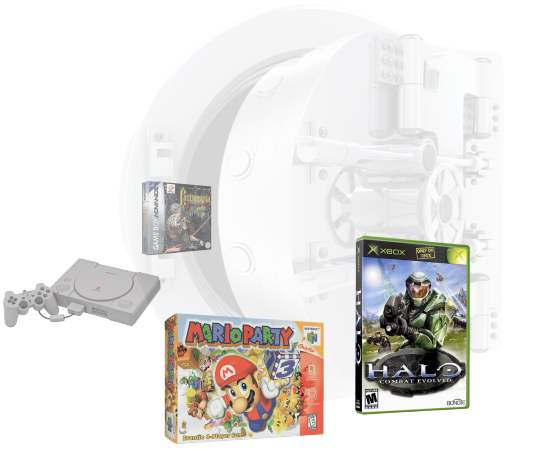
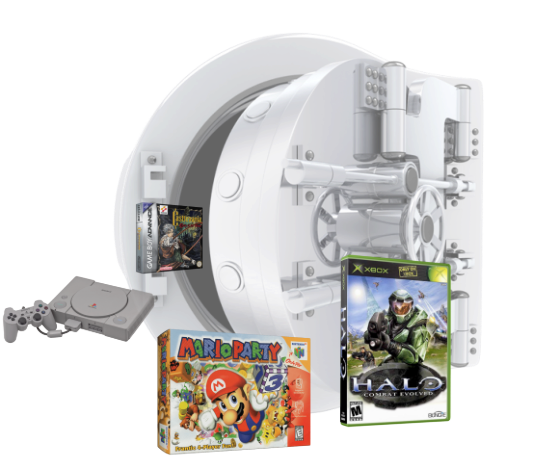
Finalized Home Page

diff --git a/frontend/src/components/NavBar/NavBar.jsx b/frontend/src/components/NavBar/NavBar.jsx
@@ -1,7 +1,25 @@
+import NavButton from "../NavButton"
 
 const NavBar = () => {
   return (
-    <div>NavBar</div>
+    <nav>
+      <div className="navbar fixed bg-background py-5 px-8">
+
+        {/* NavBar Logo */}
+        <div className="flex-1">
+          <a className="btn btn-circle"><img src="./images/logo.png" alt="Website logo of a controller" /></a>
+        </div>
+
+        {/* Sub Buttons */}
+        <div>
+          <ul className="flex space-x-4 px-1">
+            <li><NavButton text="Sign In" /></li>
+            <li><NavButton text="Sign Up" /></li>
+          </ul>
+        </div>
+
+      </div>
+    </nav>
   )
 }
 

diff --git a/frontend/src/components/Hero.jsx b/frontend/src/components/Hero.jsx
@@ -1,7 +1,17 @@
+import NavButton from "./NavButton";
 
-const Hero = () => {
+const Hero = ({hero, alt}) => {
   return (
-    <div>Hero</div>
+    <div className="hero min-h-screen ">
+      <img className="xl:w-1/2 opacity-50" src={hero} alt={alt} />
+  <div className="hero-content text-center text-neutral-content">
+    <div className="max-w-md">
+      <h1 className="mb-5 text-8xl font-black text-primary outline-white">VG Vault</h1>
+      <p className="mb-5 text-3xl font-bold">Keep track of your collection of nostalgia.</p>
+      <NavButton text="Get Started" />
+    </div>
+  </div>
+</div>
   )
 }
 

diff --git a/frontend/src/pages/Home.jsx b/frontend/src/pages/Home.jsx
@@ -1,13 +1,13 @@
-import NavBar from './components/NavBar/NavBar';
-import Hero from './components/Hero';
-import Footer from './components/Footer/Footer';
+import NavBar from '../components/NavBar/NavBar';
+import Hero from '../components/Hero';
+import Footer from '../components/Footer/Footer';
 import '../index.css'
 
 const Home = () => {
   return (
-    <div>
+    <div className='min-h-screen bg-background'>
       <NavBar />
-      <Hero />
+      <Hero hero='./images/hero-image.png' alt="Iron vault with video games and console coming out"/>
       <Footer />
     </div>
   )

diff --git a/frontend/src/components/Footer/Footer.jsx b/frontend/src/components/Footer/Footer.jsx
@@ -1,7 +1,10 @@
-
 const Footer = () => {
   return (
-    <div>Footer</div>
+    <footer>
+      <div className="fixed inset-x-0 bottom-0 text-center py-3 px-8 bg-background">
+        <span className="text-white">Made by Jason Jugo and open sourced on <a className="underline " href="https://github.com/HondaChan14">GitHub</a></span>
+      </div>
+    </footer>
   )
 }
 

diff --git a/frontend/src/components/NavButton.jsx b/frontend/src/components/NavButton.jsx
@@ -1,0 +1,7 @@
+const NavButton = ({text}) => {
+  return (
+    <button className="bg-navbtn text-white hover:bg-darkbtn focus:ring-4 focus:outline-none focus:ring-navbtn font-medium rounded-lg text-base px-6 py-3.5 text-center">{text}</button>
+  )
+}
+
+export default NavButton

diff --git a/frontend/src/App.jsx b/frontend/src/App.jsx
@@ -3,9 +3,9 @@ import "./index.css";
 
 const App = () => {
   return (
-    <>
+    <div className="font-['Poppins']">
       <Home />
-    </>
+    </div>
   )
 }
 

diff --git a/frontend/src/index.css b/frontend/src/index.css
@@ -1,3 +1,4 @@
+@import url('https://fonts.googleapis.com/css2?family=Poppins&display=swap');
 @tailwind base;
 @tailwind components;
 @tailwind utilities;
